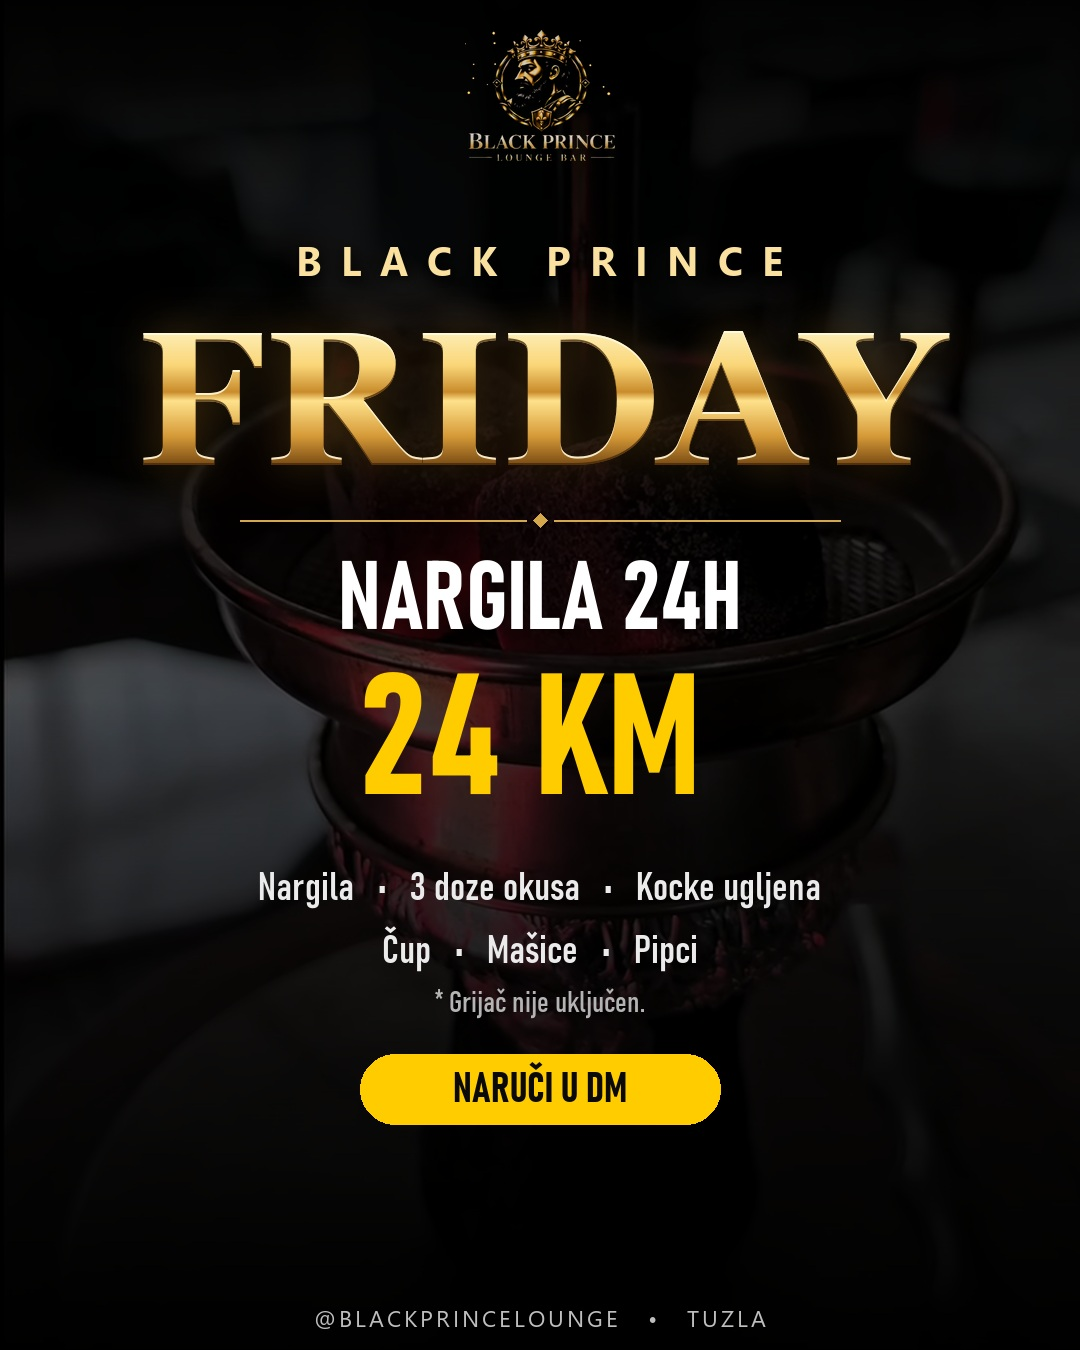
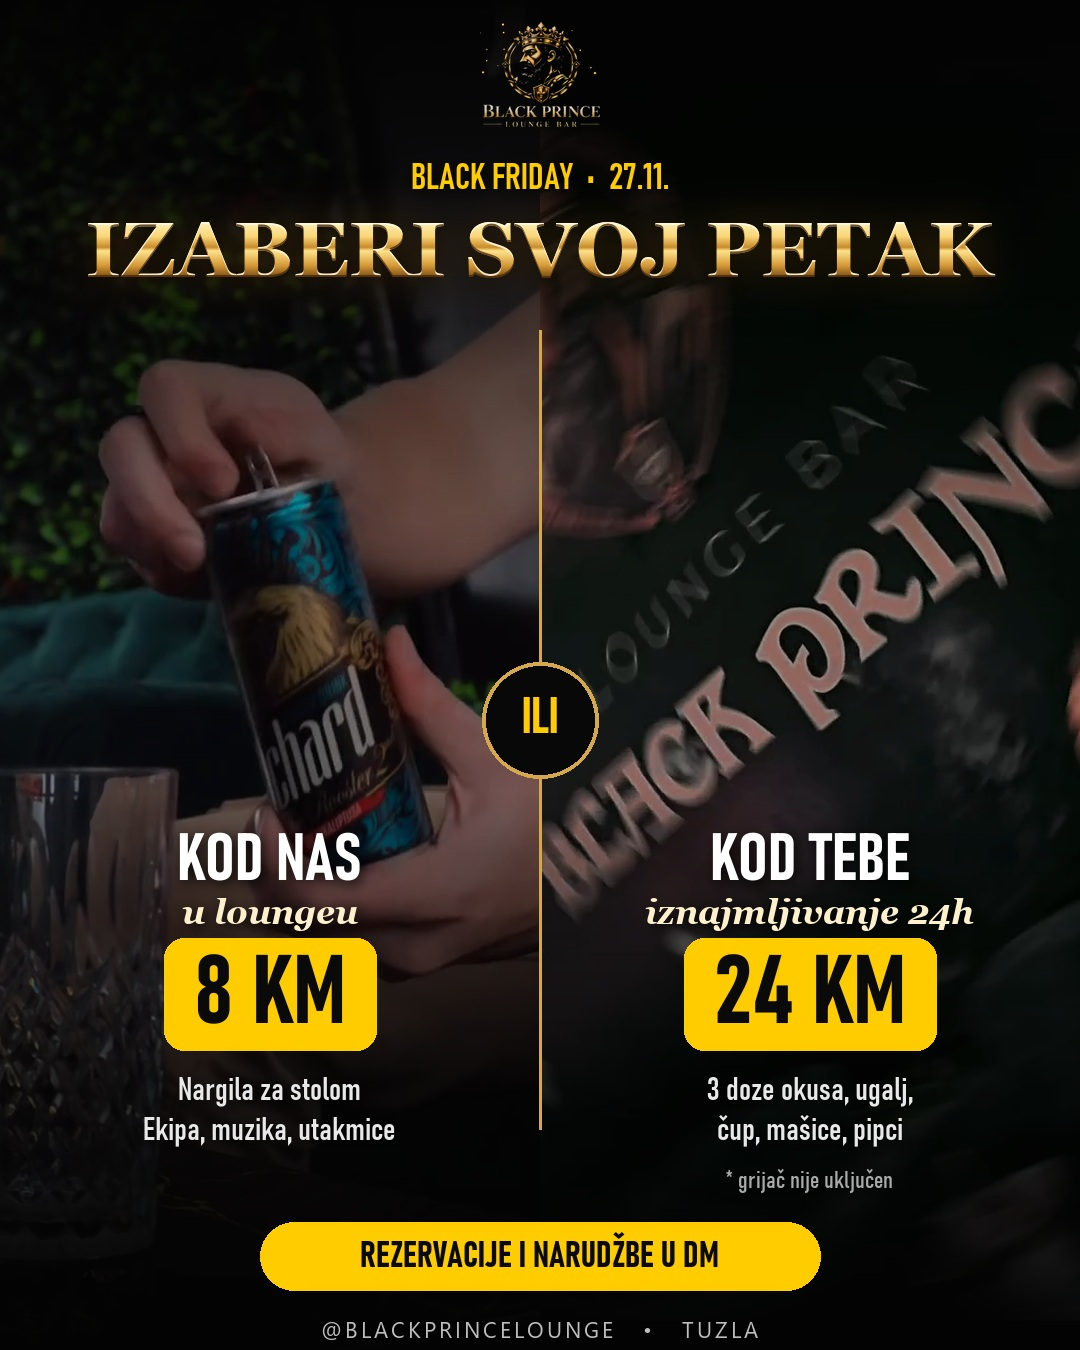
Black Prince: petak 27.11. – Izaberi svoj petak (8 KM lokal / 24 KM iznajmljivanje), stari plakat zamijenjen

diff --git a/biznisi/black-prince/profil.md b/biznisi/black-prince/profil.md
@@ -20,7 +20,8 @@
 - Nikad ne raditi: ?
 
 ## Ponude (od korisnika)
-- Nargila 24h – 24 KM (30.10.2026): u cijeni nargila, 3 doze okusa, kocke ugljena, čup, mašice, pipci; grijač NIJE uključen.
+- Nargila 24h – 24 KM (30.10.2026) = IZNAJMLJIVANJE (nargila za kući na 24h): u cijeni nargila, 3 doze okusa, kocke ugljena, čup, mašice, pipci; grijač NIJE uključen.
+- Nargila u lokalu (za stolom): 8 KM (korisnik, 27.11.2026). Ne miješati s iznajmljivanjem.
 
 ## Raspored
 - Dani: pon (post), sri (video), pet (post)
